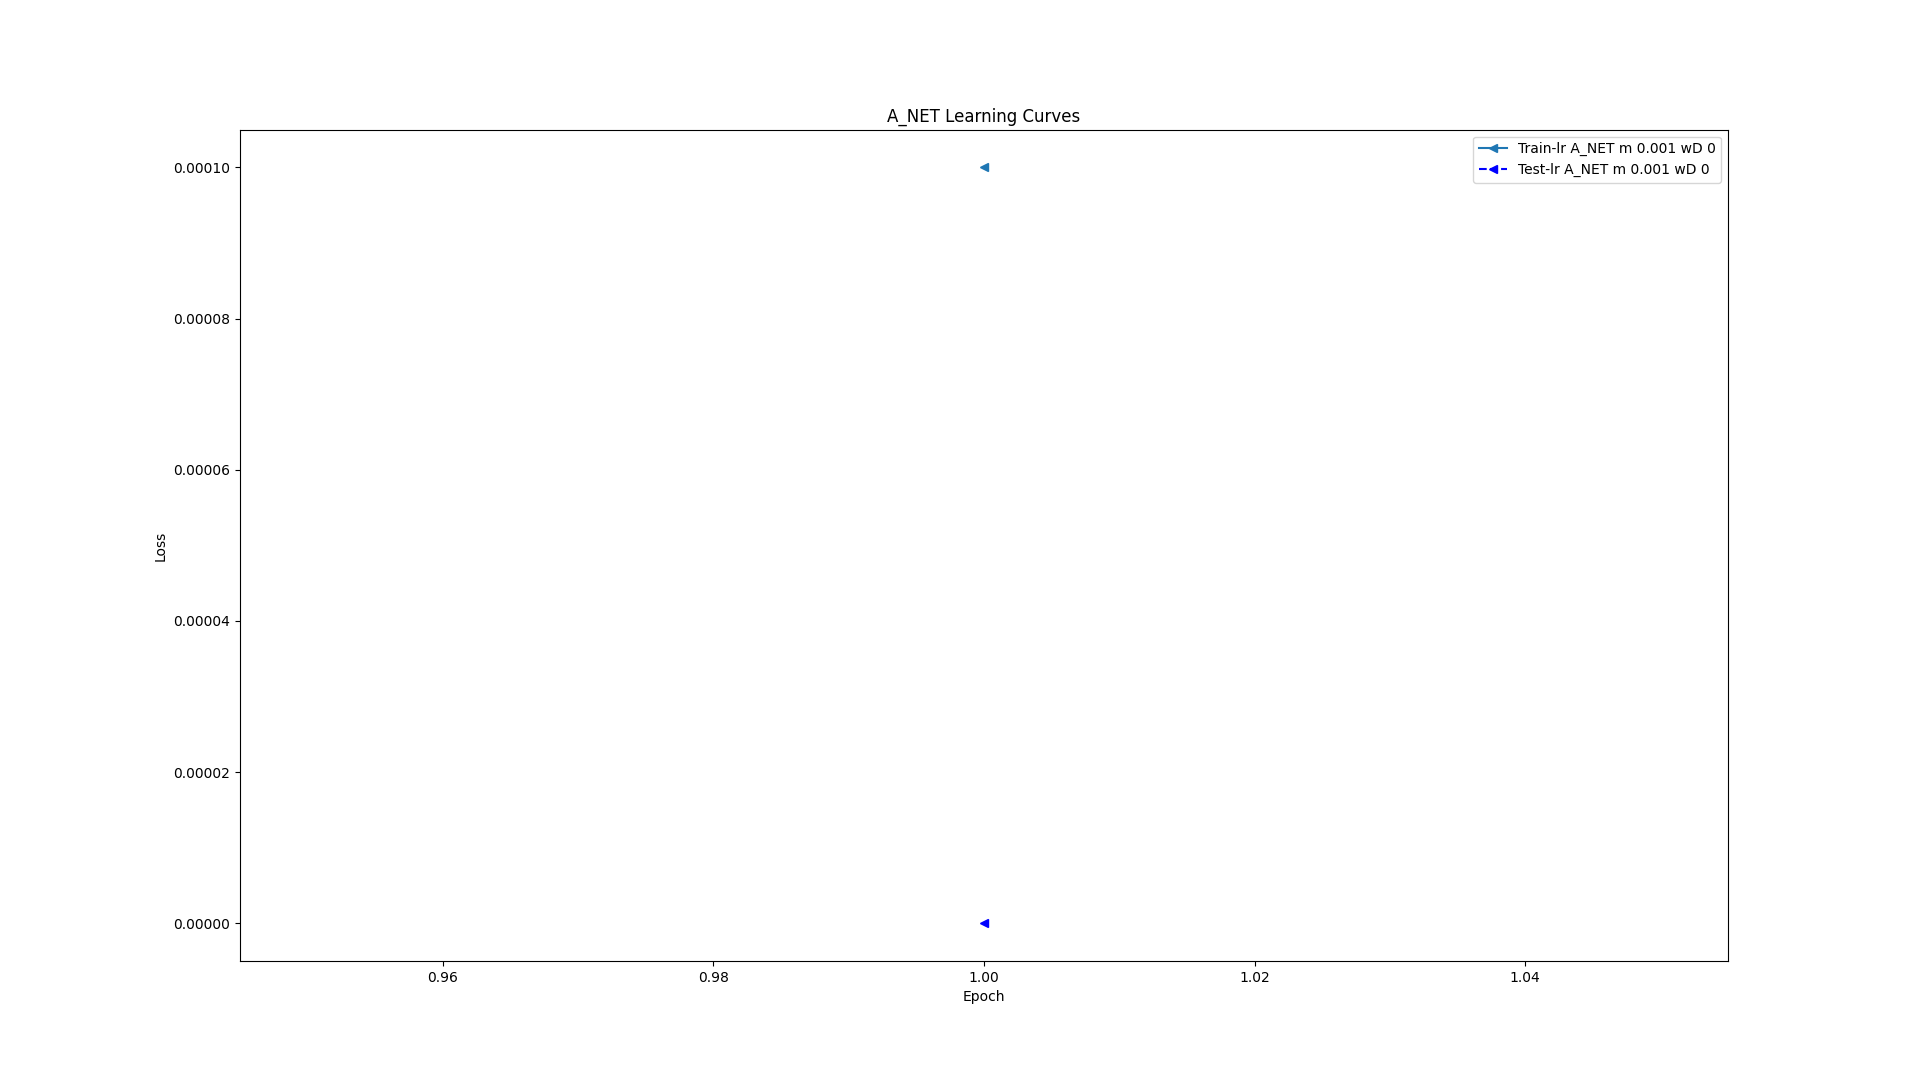
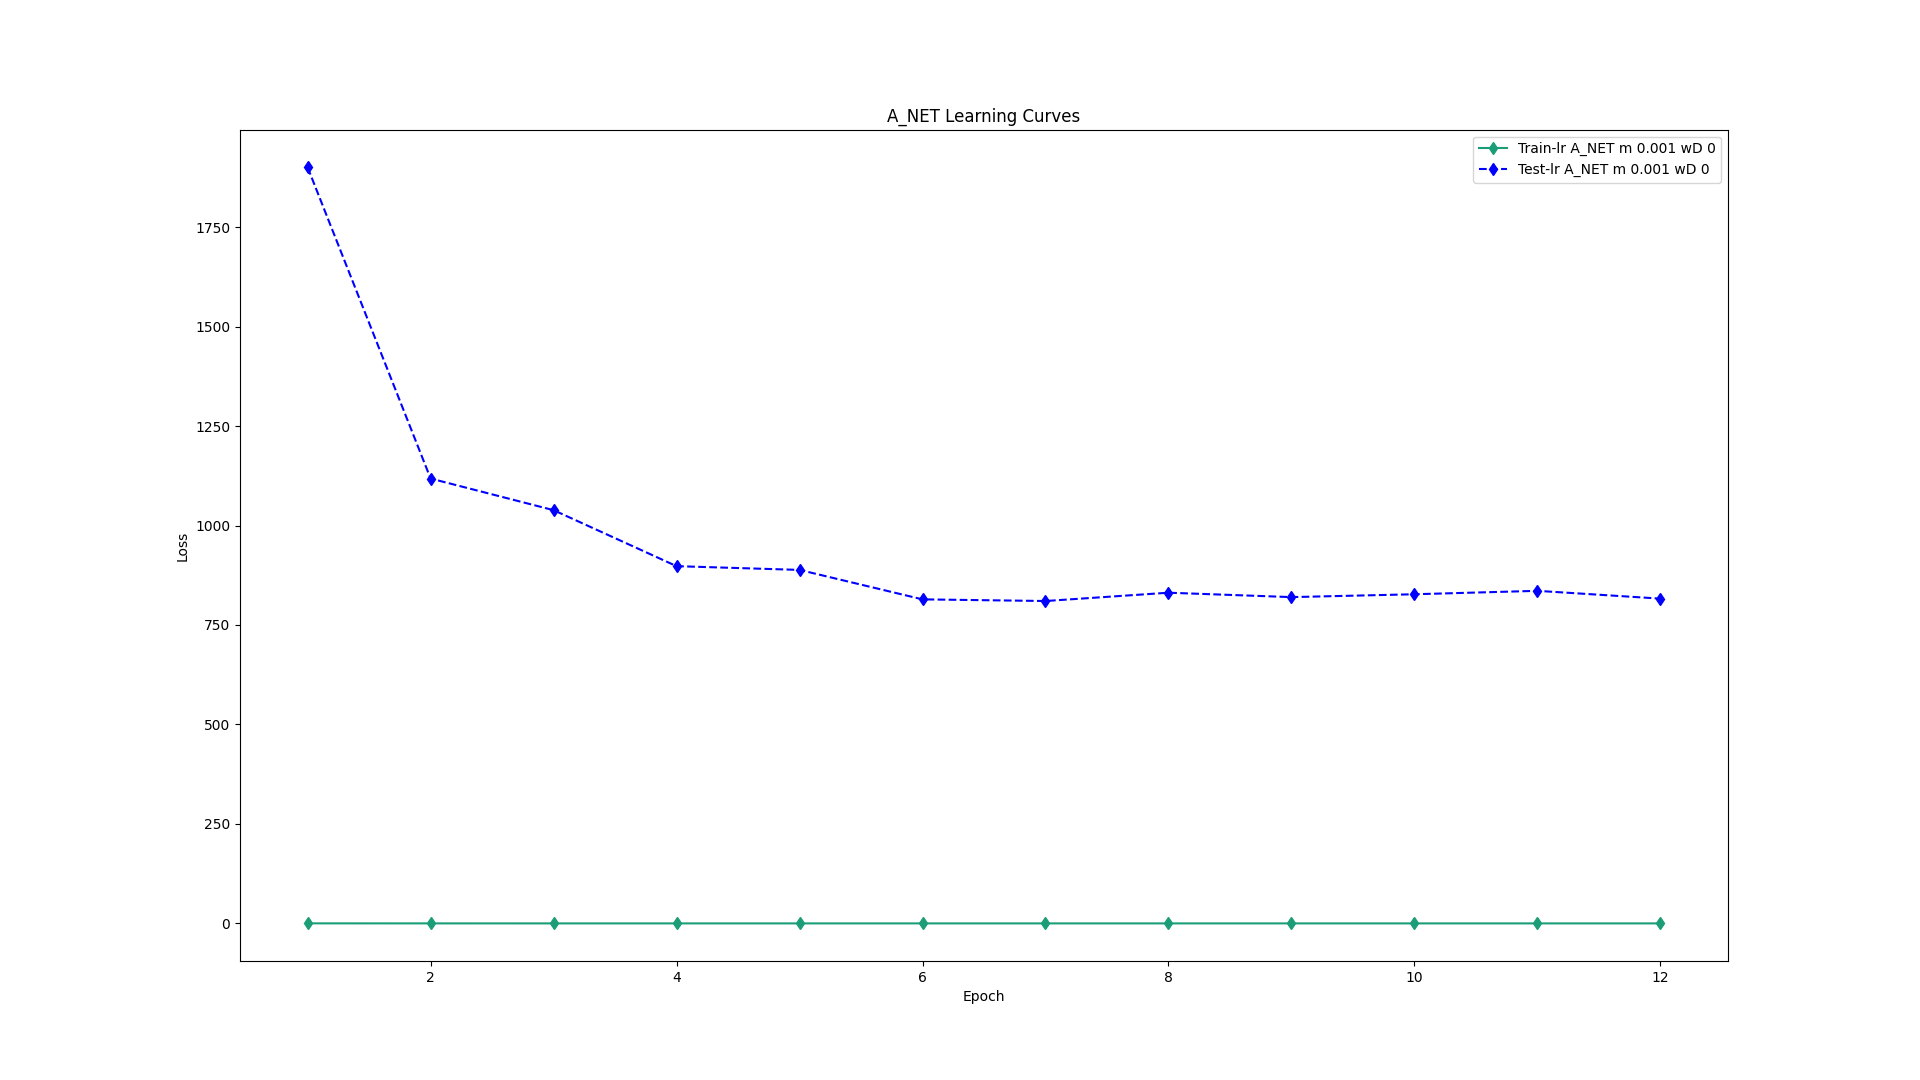
First baseline run

diff --git a/Project/top_level.py b/Project/top_level.py
@@ -104,7 +104,7 @@ def main():
     print("######### Initiating Fashion MNIST network training #########\n")
     print("Parameters: lr:{}, momentum:{}, batch Size:{}, epochs:{}".format(lr,m,bSize,epochs))
     fitArgs = {}
-    model.fit(trainLoader, testLoader, optim, device, epochs = 1, lossFunction = loss, earlyStopIdx = 1, earlyTestStopIdx = 1, saveHistory = True, savePlot= True)
+    model.fit(trainLoader, testLoader, optim, device, epochs = 12, lossFunction = loss, earlyStopIdx = 0, earlyTestStopIdx = 0, saveHistory = True, savePlot= True)
 
     # Final report
     model.report()
